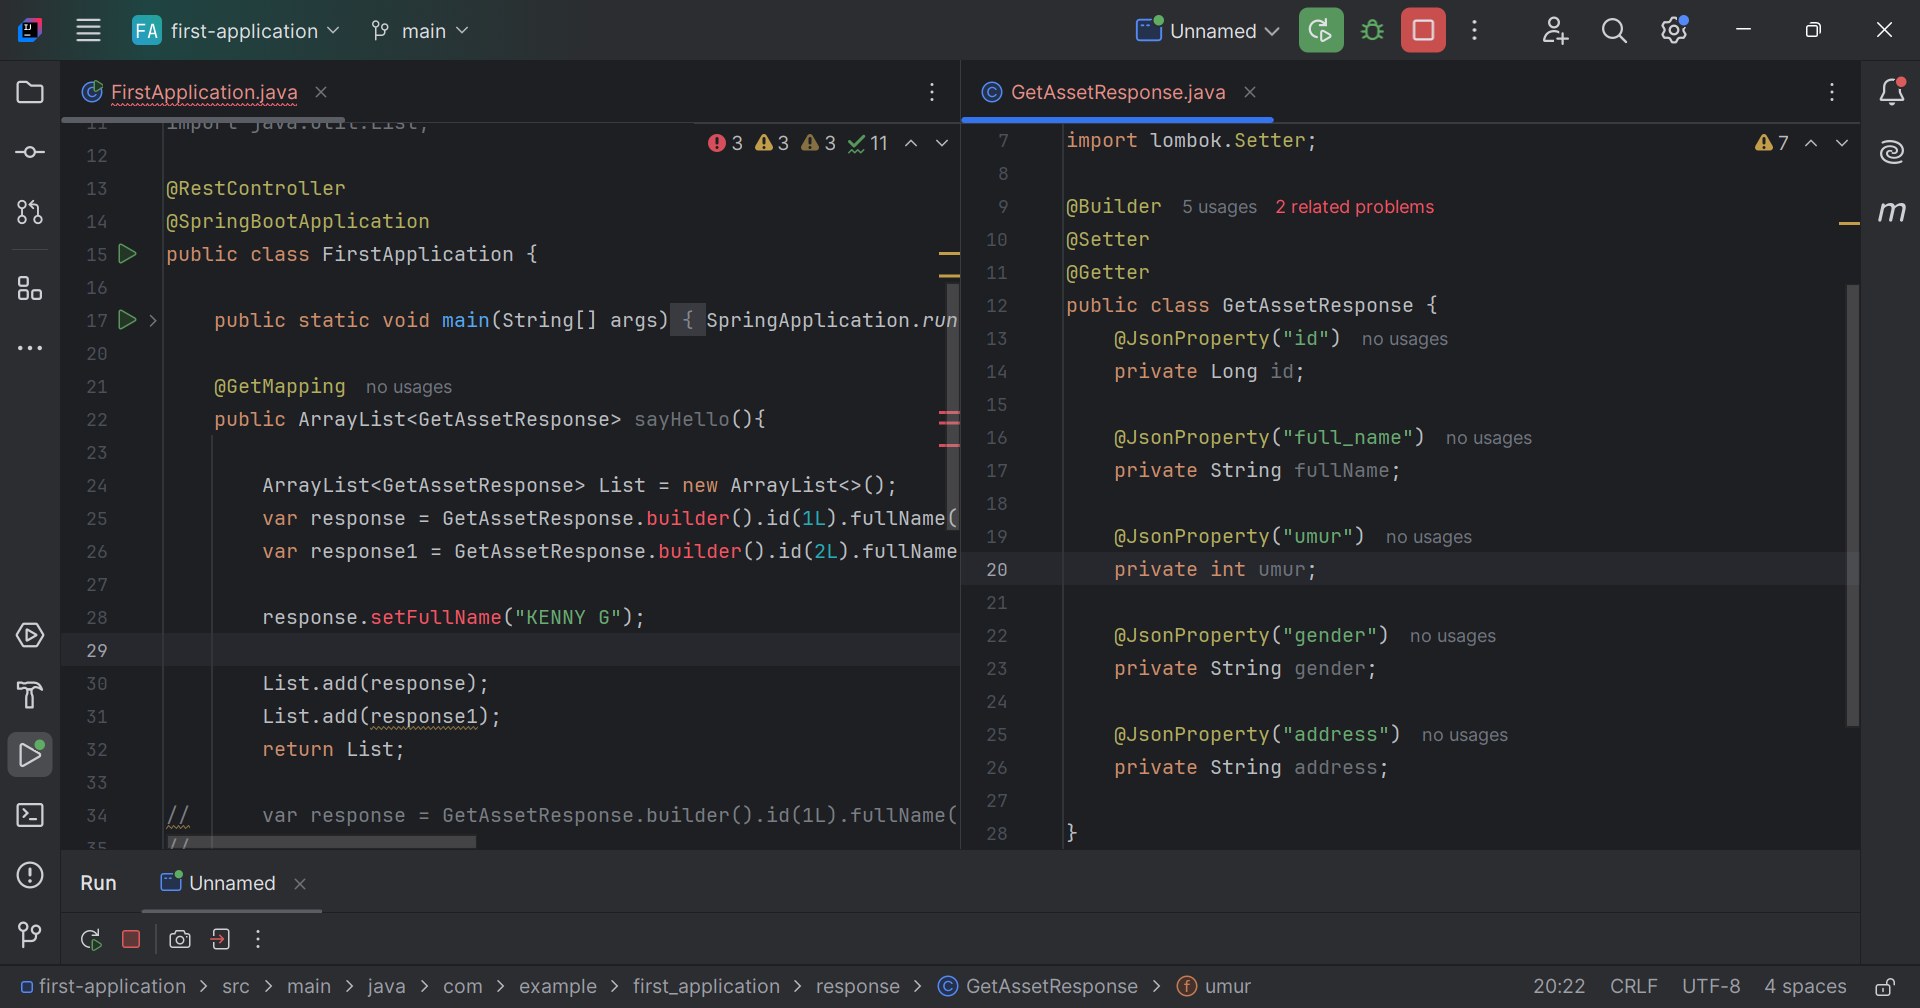
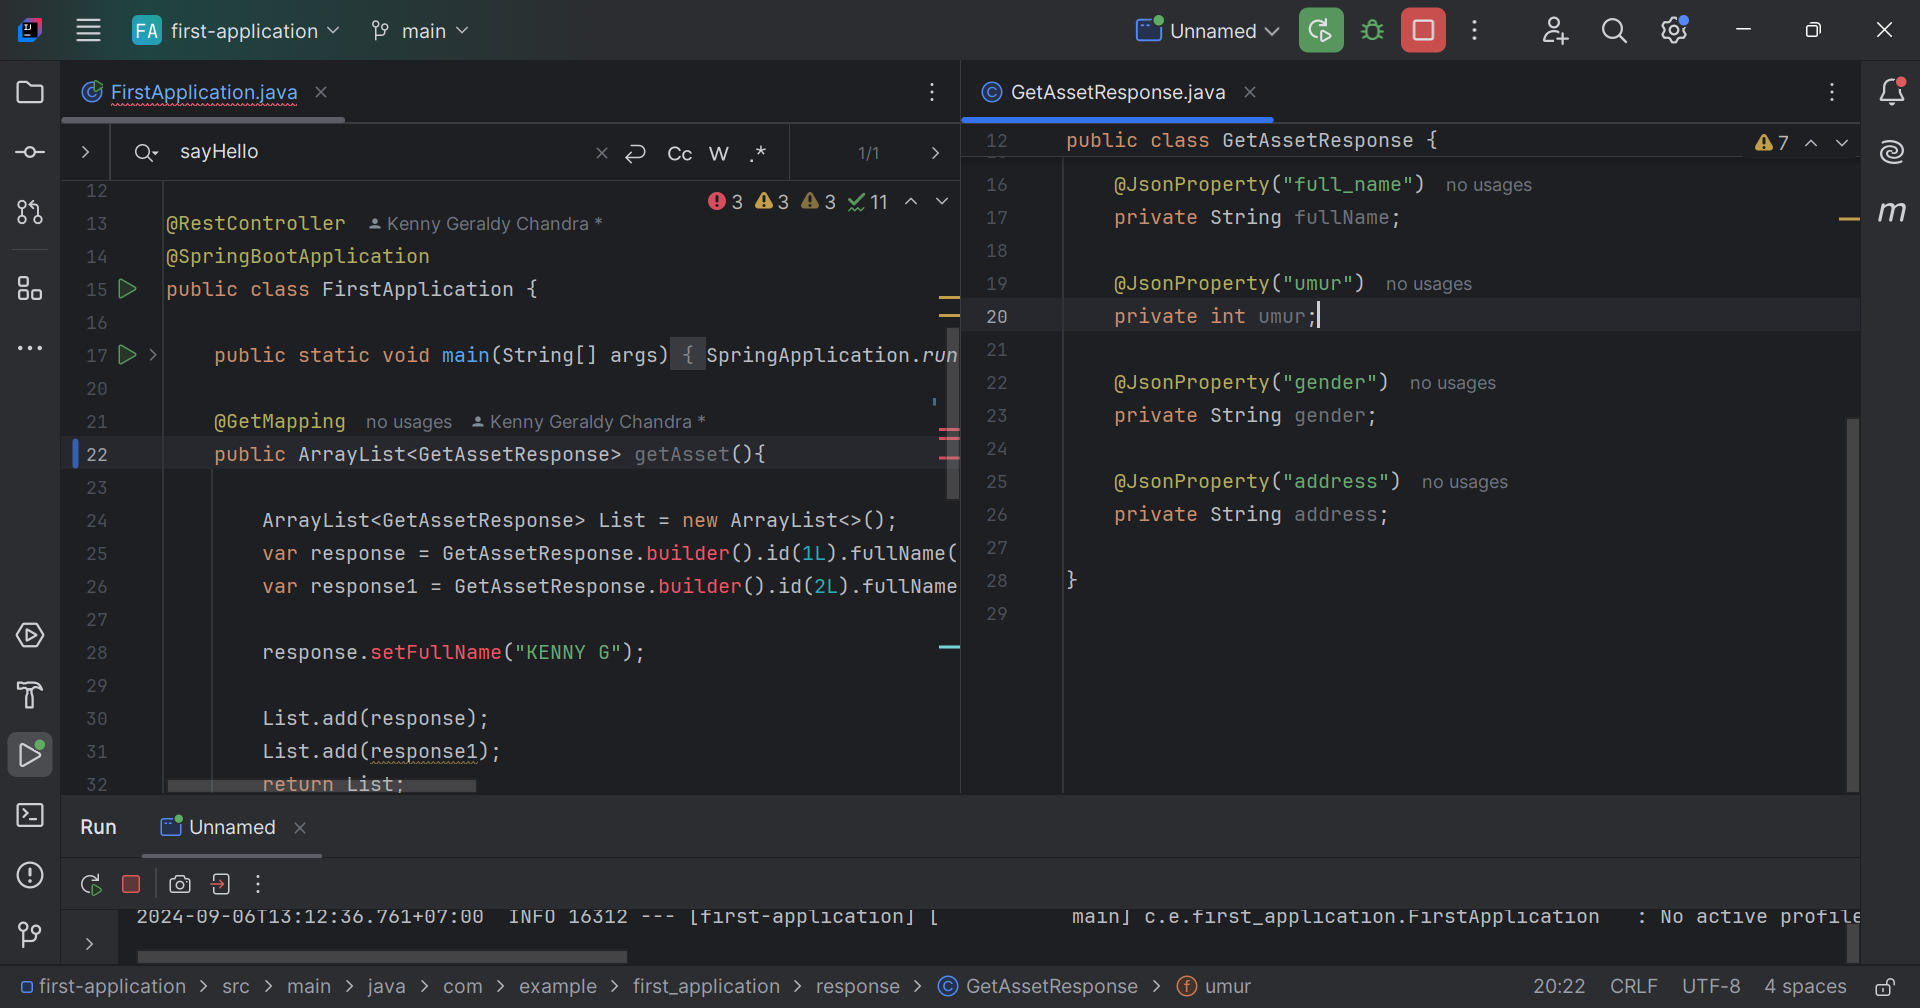
refactor get Asset

diff --git a/exercise/day-2/section-1/demo/first-application/src/main/java/com/example/first_application/FirstApplication.java b/exercise/day-2/section-1/demo/first-application/src/main/java/com/example/first_application/FirstApplication.java
@@ -19,7 +19,7 @@ public class FirstApplication {
 	}
 
 	@GetMapping
-	public ArrayList<GetAssetResponse> sayHello(){
+	public ArrayList<GetAssetResponse> getAsset(){
 
 		ArrayList<GetAssetResponse> List = new ArrayList<>();
 		var response = GetAssetResponse.builder().id(1L).fullName("Kenny Geraldy Chandra").umur(22).gender("Laki-Laki").address("Jl. Kintamani No.2").build();
